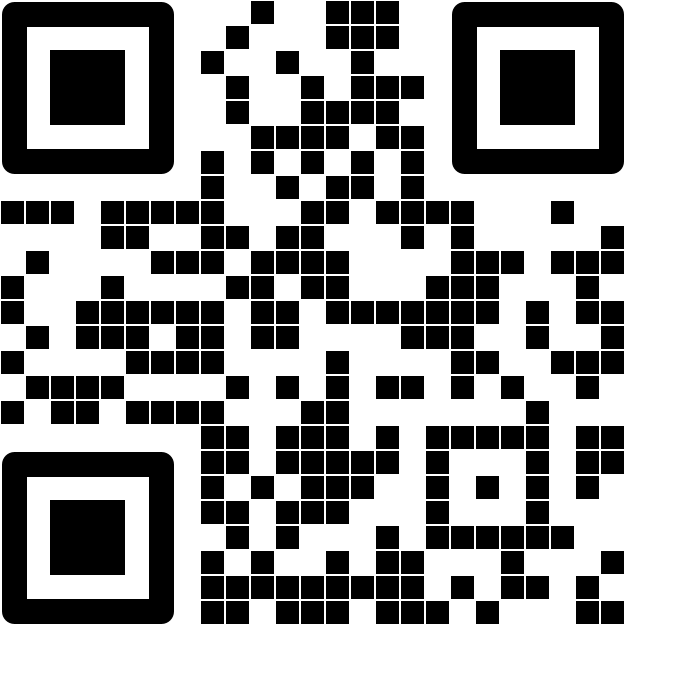
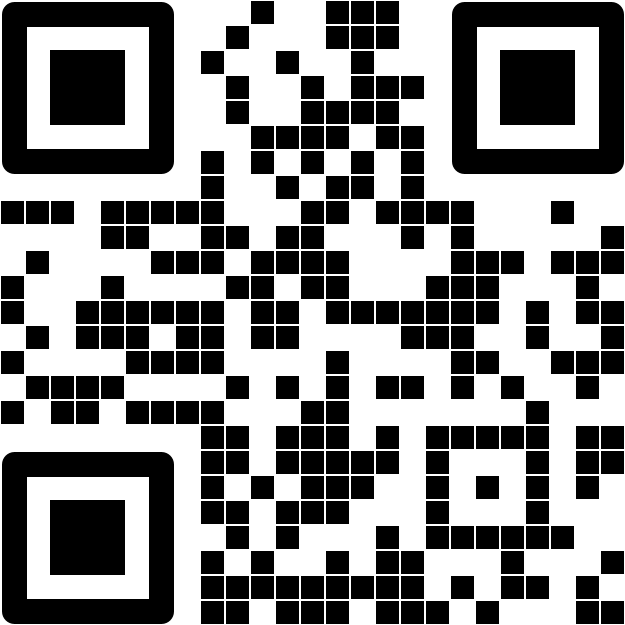
feat(ecl-auto): ironing out the last bugs

diff --git a/src/commonMain/kotlin/qrcode/QRCode.kt b/src/commonMain/kotlin/qrcode/QRCode.kt
@@ -138,14 +138,20 @@ class QRCode @JvmOverloads constructor(
     val rawData: QRCodeRawData = qrCodeProcessor.encode(informationDensity, maskPattern)
 
     /** Calculated size of the whole QRCode (the final image will be a square of `computedSize` by `computedSize`) */
-    var computedSize: Int = qrCodeProcessor.computeImageSize(squareSize, squareSize, rawData)
+    var computedSize: Int = qrCodeProcessor.computeImageSize(squareSize, margin = DEFAULT_MARGIN, rawData)
         private set
 
     /** The [QRCodeGraphics] (aka "canvas") where all the drawing will happen */
     var graphics: QRCodeGraphics = graphicsFactory.newGraphicsSquare(computedSize)
         private set
 
-    private fun draw(xOffset: Int, yOffset: Int, rawData: QRCodeRawData, canvas: QRCodeGraphics, margin: Int = squareSize): QRCodeGraphics =
+    private fun draw(
+        xOffset: Int,
+        yOffset: Int,
+        rawData: QRCodeRawData,
+        canvas: QRCodeGraphics,
+        margin: Int = DEFAULT_MARGIN,
+    ): QRCodeGraphics =
         qrCodeProcessor.renderShaded(
             cellSize = squareSize,
             margin = margin,
@@ -165,7 +171,14 @@ class QRCode @JvmOverloads constructor(
                         this,
                     )
 
-                    else -> shapeFn.renderSquare(xOffset + x, yOffset + y, colorFn, currentSquare, canvas, this)
+                    else -> shapeFn.renderSquare(
+                        xOffset + x + margin,
+                        yOffset + y + margin,
+                        colorFn,
+                        currentSquare,
+                        canvas,
+                        this,
+                    )
                 }
 
                 actualSquare.rendered = true
@@ -179,7 +192,7 @@ class QRCode @JvmOverloads constructor(
         val reference = min(width, height)
         squareSize = floor((reference - margin) / rawData.size.toDouble()).toInt()
         shapeFn.resize(squareSize)
-        computedSize = qrCodeProcessor.computeImageSize(squareSize, squareSize, rawData)
+        computedSize = qrCodeProcessor.computeImageSize(squareSize, margin, rawData)
         graphics = graphicsFactory.newGraphicsSquare(squareSize)
 
         return this
@@ -187,7 +200,16 @@ class QRCode @JvmOverloads constructor(
 
     /** Executes all the drawing of the QRCode and returns the [QRCodeGraphics] of the complete QRCode. */
     @JvmOverloads
-    fun render(qrCodeGraphics: QRCodeGraphics = graphics, xOffset: Int = 0, yOffset: Int = 0, margin: Int = DEFAULT_MARGIN): QRCodeGraphics {
+    fun render(
+        qrCodeGraphics: QRCodeGraphics = graphics,
+        xOffset: Int = 0,
+        yOffset: Int = 0,
+        margin: Int = DEFAULT_MARGIN,
+    ): QRCodeGraphics {
+        if (margin != DEFAULT_MARGIN) {
+            fitIntoArea(computedSize, computedSize, margin)
+        }
+
         colorFn.beforeRender(this, qrCodeGraphics)
         shapeFn.beforeRender(this, qrCodeGraphics)
         doBefore(qrCodeGraphics, xOffset, yOffset)
@@ -196,7 +218,13 @@ class QRCode @JvmOverloads constructor(
 
     /** Calls [render] and then returns the bytes of a [format] (default = PNG) render of the QRCode. */
     @JvmOverloads
-    fun renderToBytes(qrCodeGraphics: QRCodeGraphics = graphics, xOffset: Int = 0, yOffset: Int = 0, margin: Int = DEFAULT_MARGIN, format: String = "PNG"): ByteArray {
+    fun renderToBytes(
+        qrCodeGraphics: QRCodeGraphics = graphics,
+        xOffset: Int = 0,
+        yOffset: Int = 0,
+        margin: Int = DEFAULT_MARGIN,
+        format: String = "PNG",
+    ): ByteArray {
         return render(qrCodeGraphics, xOffset, yOffset, margin).getBytes(format)
     }
 

diff --git a/examples/kotlin/src/main/kotlin/Example01-Shapes.kt b/examples/kotlin/src/main/kotlin/Example01-Shapes.kt
@@ -1,4 +1,5 @@
 import qrcode.QRCode
+import qrcode.color.Colors
 import qrcode.raw.QRCodeProcessor
 import qrcode.render.QRCodeGraphics
 import qrcode.shape.DefaultShapeFunction
@@ -89,7 +90,9 @@ class JVMTriangleShapeFunction(
             triangle.addPoint(bottomRightX, bottomRightY)
             triangle.addPoint(topCenterX, topCenterY)
 
-            it.paint = Color(color)
+            val (r, g, b, a) = Colors.getRGBA(color)
+
+            it.paint = Color(r, g, b, a)
 
             it.fill(triangle)
         }

diff --git a/src/commonMain/kotlin/qrcode/shape/DefaultShapeFunction.kt b/src/commonMain/kotlin/qrcode/shape/DefaultShapeFunction.kt
@@ -106,6 +106,8 @@ open class DefaultShapeFunction(
                 // Always a 5x5 square at (x, y)
                 canvas.fillRect(startX, startY, size, size, bg)
 
+                println("[draw control square] startX=$startX, startY=$startY, squareSize=$squareSize")
+
                 // 1st line
                 drawSquaresLine(startX, startY, 5, 1, fg, canvas)
 
